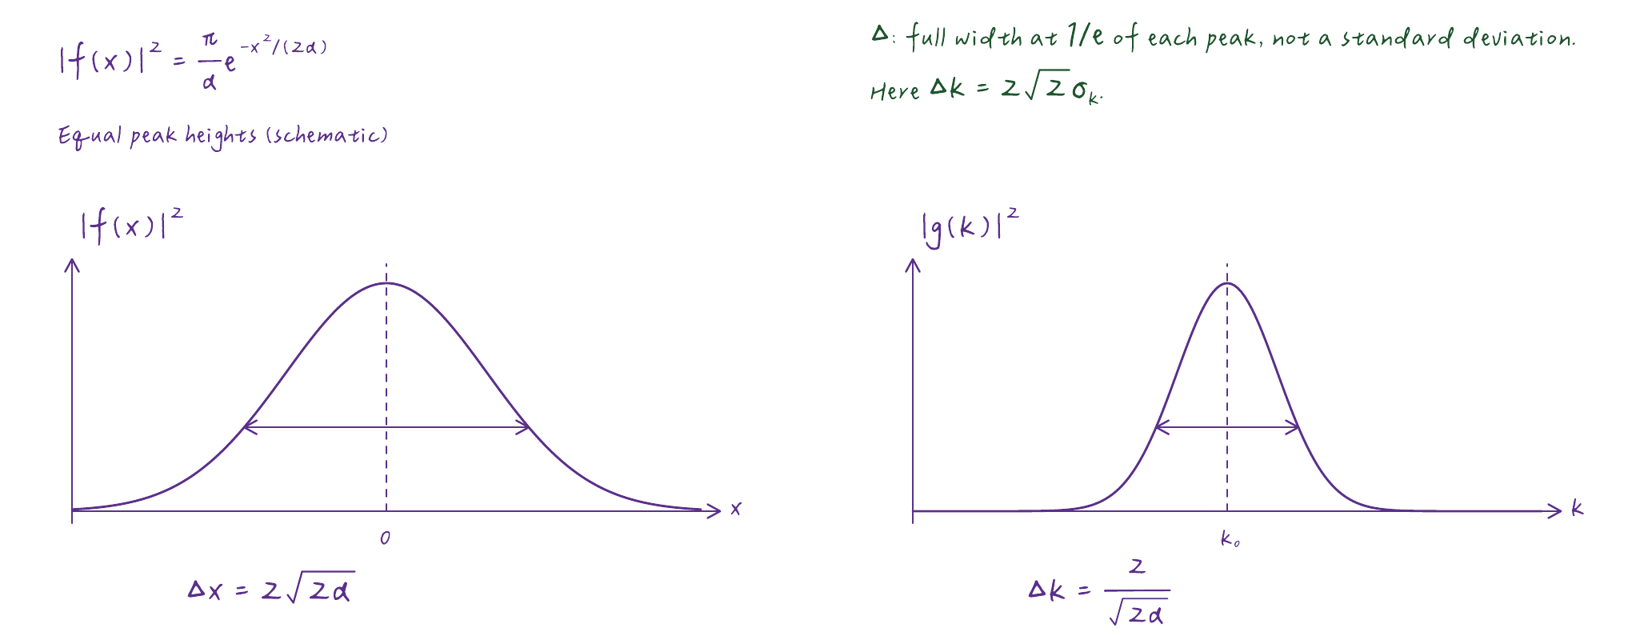
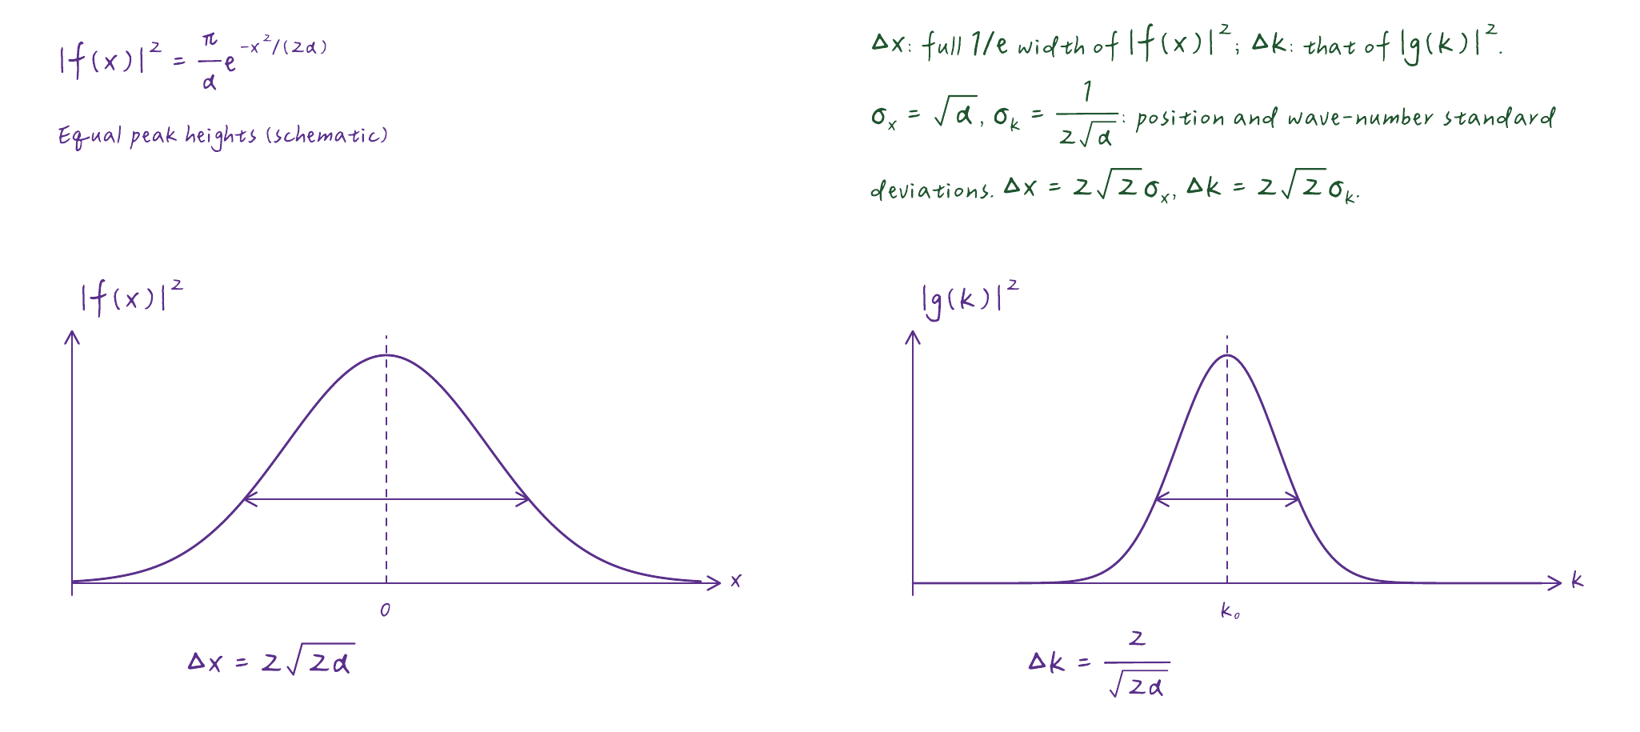
Clarify spatial and spectral widths versus standard deviations

diff --git a/tools/font/note_figure_layout.py b/tools/font/note_figure_layout.py
@@ -32,7 +32,7 @@ def spectrum_width_arrow_y(axis_y, figure_id):
 
 def spectrum_note_frame(x, y, width):
     """Upper-right definition above the paired Gaussian diagrams."""
-    return x + .53 * width, y, .46 * width, 70
+    return x + .53 * width, y, .46 * width, 100
 
 
 def gaussian_comparison_panels(x, y, width):
@@ -45,7 +45,7 @@ def gaussian_comparison_panels(x, y, width):
     for offset,sigma in ((0,.16),(.53,.08)):
         left=x+offset*width+18
         span=.46*width-42
-        baseline=y+205
+        baseline=y+235
         peak_height=95
         center=left+span/2
         half_width=2**.5*sigma*span

diff --git a/tools/font/README.md b/tools/font/README.md
@@ -49,9 +49,9 @@ The short hook is additionally lifted by 0.18 × equation size along the existin
 
 [`note_figure_layout.py`](note_figure_layout.py) supplies small offsets for specific diagram label roles: fixed-position text below a sinusoid, spectrum/packet widths, a sinc zero, an optical angle, spreading widths, and the beat-envelope axis label. The renderer measures native label ink and reserves its actual bottom extent before placing the next paragraph. Curves, axes, label wording and font sizes are preserved.
 
-`gaussian_comparison_panels` lays out the Fourier example (W05) with the spatial density on the left and the spectral density on the right. Both peaks have the same schematic height; the two arrows end exactly on the curves at 1/e of the peak. The captions give the analytical full widths, Δx = 2√(2α) and Δk = 2/√(2α). `spectrum_note_frame` reserves an upper-right area for the deep-green definition, distinguishing these widths from standard deviations. The existing `spectrum_width_arrow_y` helper remains available to unpaired spectra.
+`gaussian_comparison_panels` lays out the Fourier example (W05) with the spatial density on the left and the spectral density on the right. Both peaks have the same schematic height; the two arrows end exactly on the curves at 1/e of the peak. The captions give the analytical full widths, Δx = 2√(2α) and Δk = 2/√(2α). `spectrum_note_frame` reserves an upper-right area for the deep-green definition, distinguishing these widths from standard deviations. It explicitly identifies σx = √α as the position standard deviation and σk = 1/(2√α) as the wave-number standard deviation, and states Δx = 2√2 σx and Δk = 2√2 σk. The existing `spectrum_width_arrow_y` helper remains available to unpaired spectra.
 
-The local renderer measures every formula and annotation, checks 22 label rows against diagram strokes, and preserves all 208 original display equations and sizes. The first sheet's left column grows by 115 canvas units; page 1's right column and pages 2–6 are unchanged. The comparison remains within the six existing page canvases. The first sheet subtitle is black. Its first basic-relation equation is restored to dark red (#8B1E2D), and the second to purple (#5B308B), following the requested original palette.
+The local renderer measures every formula and annotation, checks 23 label rows against diagram strokes, and preserves all 208 original display equations and sizes. The first sheet's left column grows by 145 canvas units; page 1's right column and pages 2–6 are unchanged. The comparison remains within the six existing page canvases. The first sheet subtitle is black. Its first basic-relation equation is restored to dark red (#8B1E2D), and the second to purple (#5B308B), following the requested original palette.
 
 ```sh
 python tools/font/verify_gaussian_comparison.py
@@ -92,7 +92,7 @@ The PDF keeps all 208 equation strings and font sizes. Integration checks cover 
 
 `note_annotation_layout.py` wraps prose with `$math$` spans using renderer-supplied native measurements. Math spans are indivisible; punctuation remains attached, each line uses a shared baseline, and tall fractions reserve their actual ascent/descent. The local notes adapter draws prose with the handwriting font and parses each math span through the existing math renderer, including hats, fractions and scripts.
 
-All 50 annotations use English prose in deep green (`#20552F`), with 55 native math spans. All non-green text, 208 display equations and their sizes are preserved. The fifth sheet grows from 2530 to 2570 canvas units to retain footer clearance; there are still six sheets. The bilingual audit stays with the local lecture project at `analysis/english-annotations.json`.
+All 50 annotations use English prose in deep green (`#20552F`), with 61 native math spans. All non-green text, 208 display equations and their sizes are preserved. The fifth sheet grows from 2530 to 2570 canvas units to retain footer clearance; there are still six sheets. The bilingual audit stays with the local lecture project at `analysis/english-annotations.json`.
 
 ```sh
 python tools/font/verify_note_annotation_layout.py
